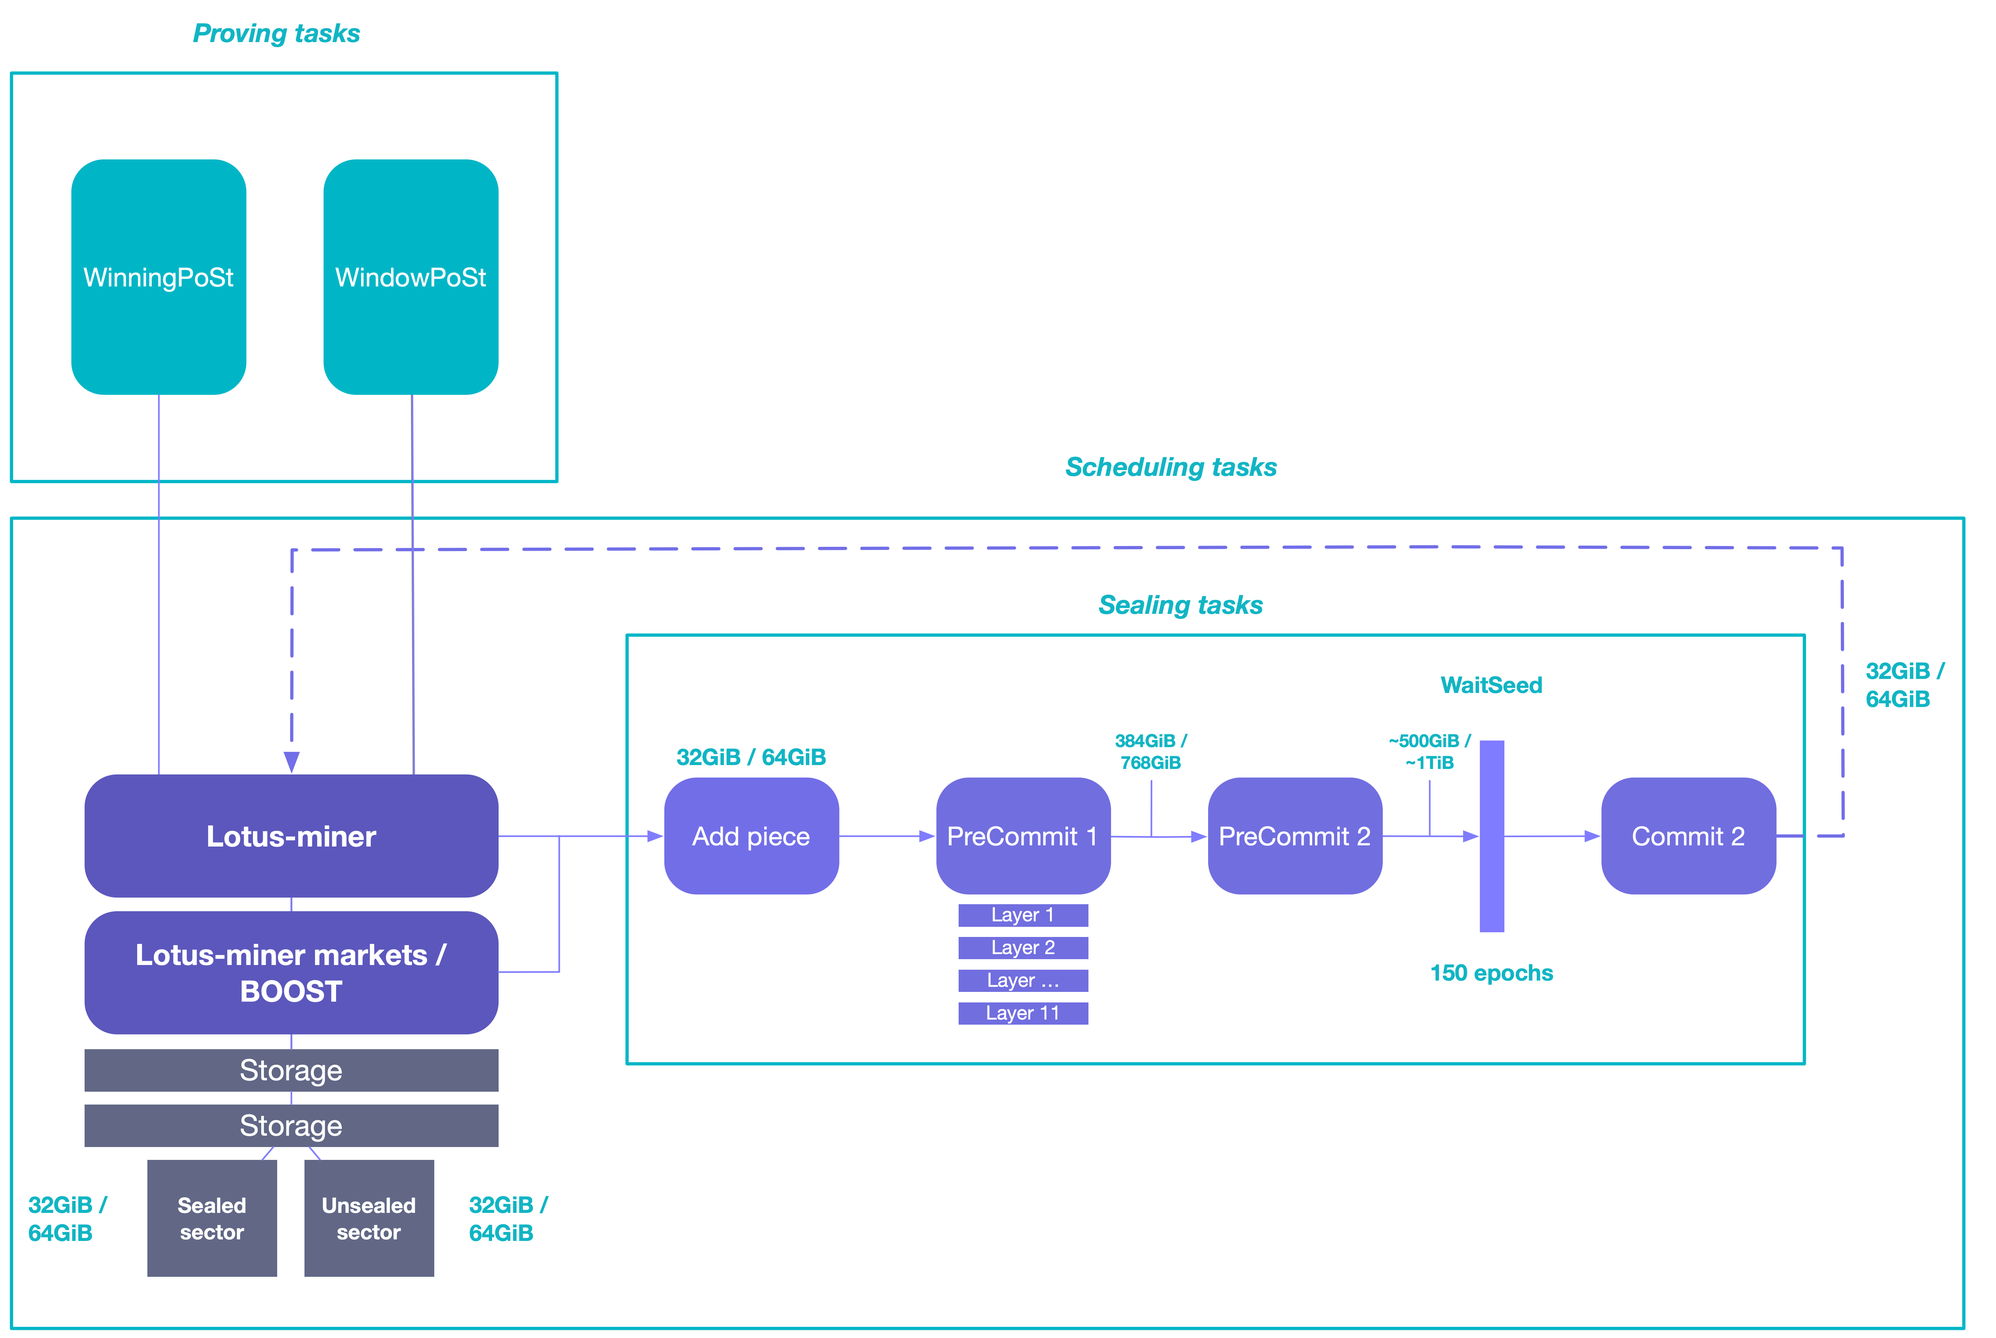
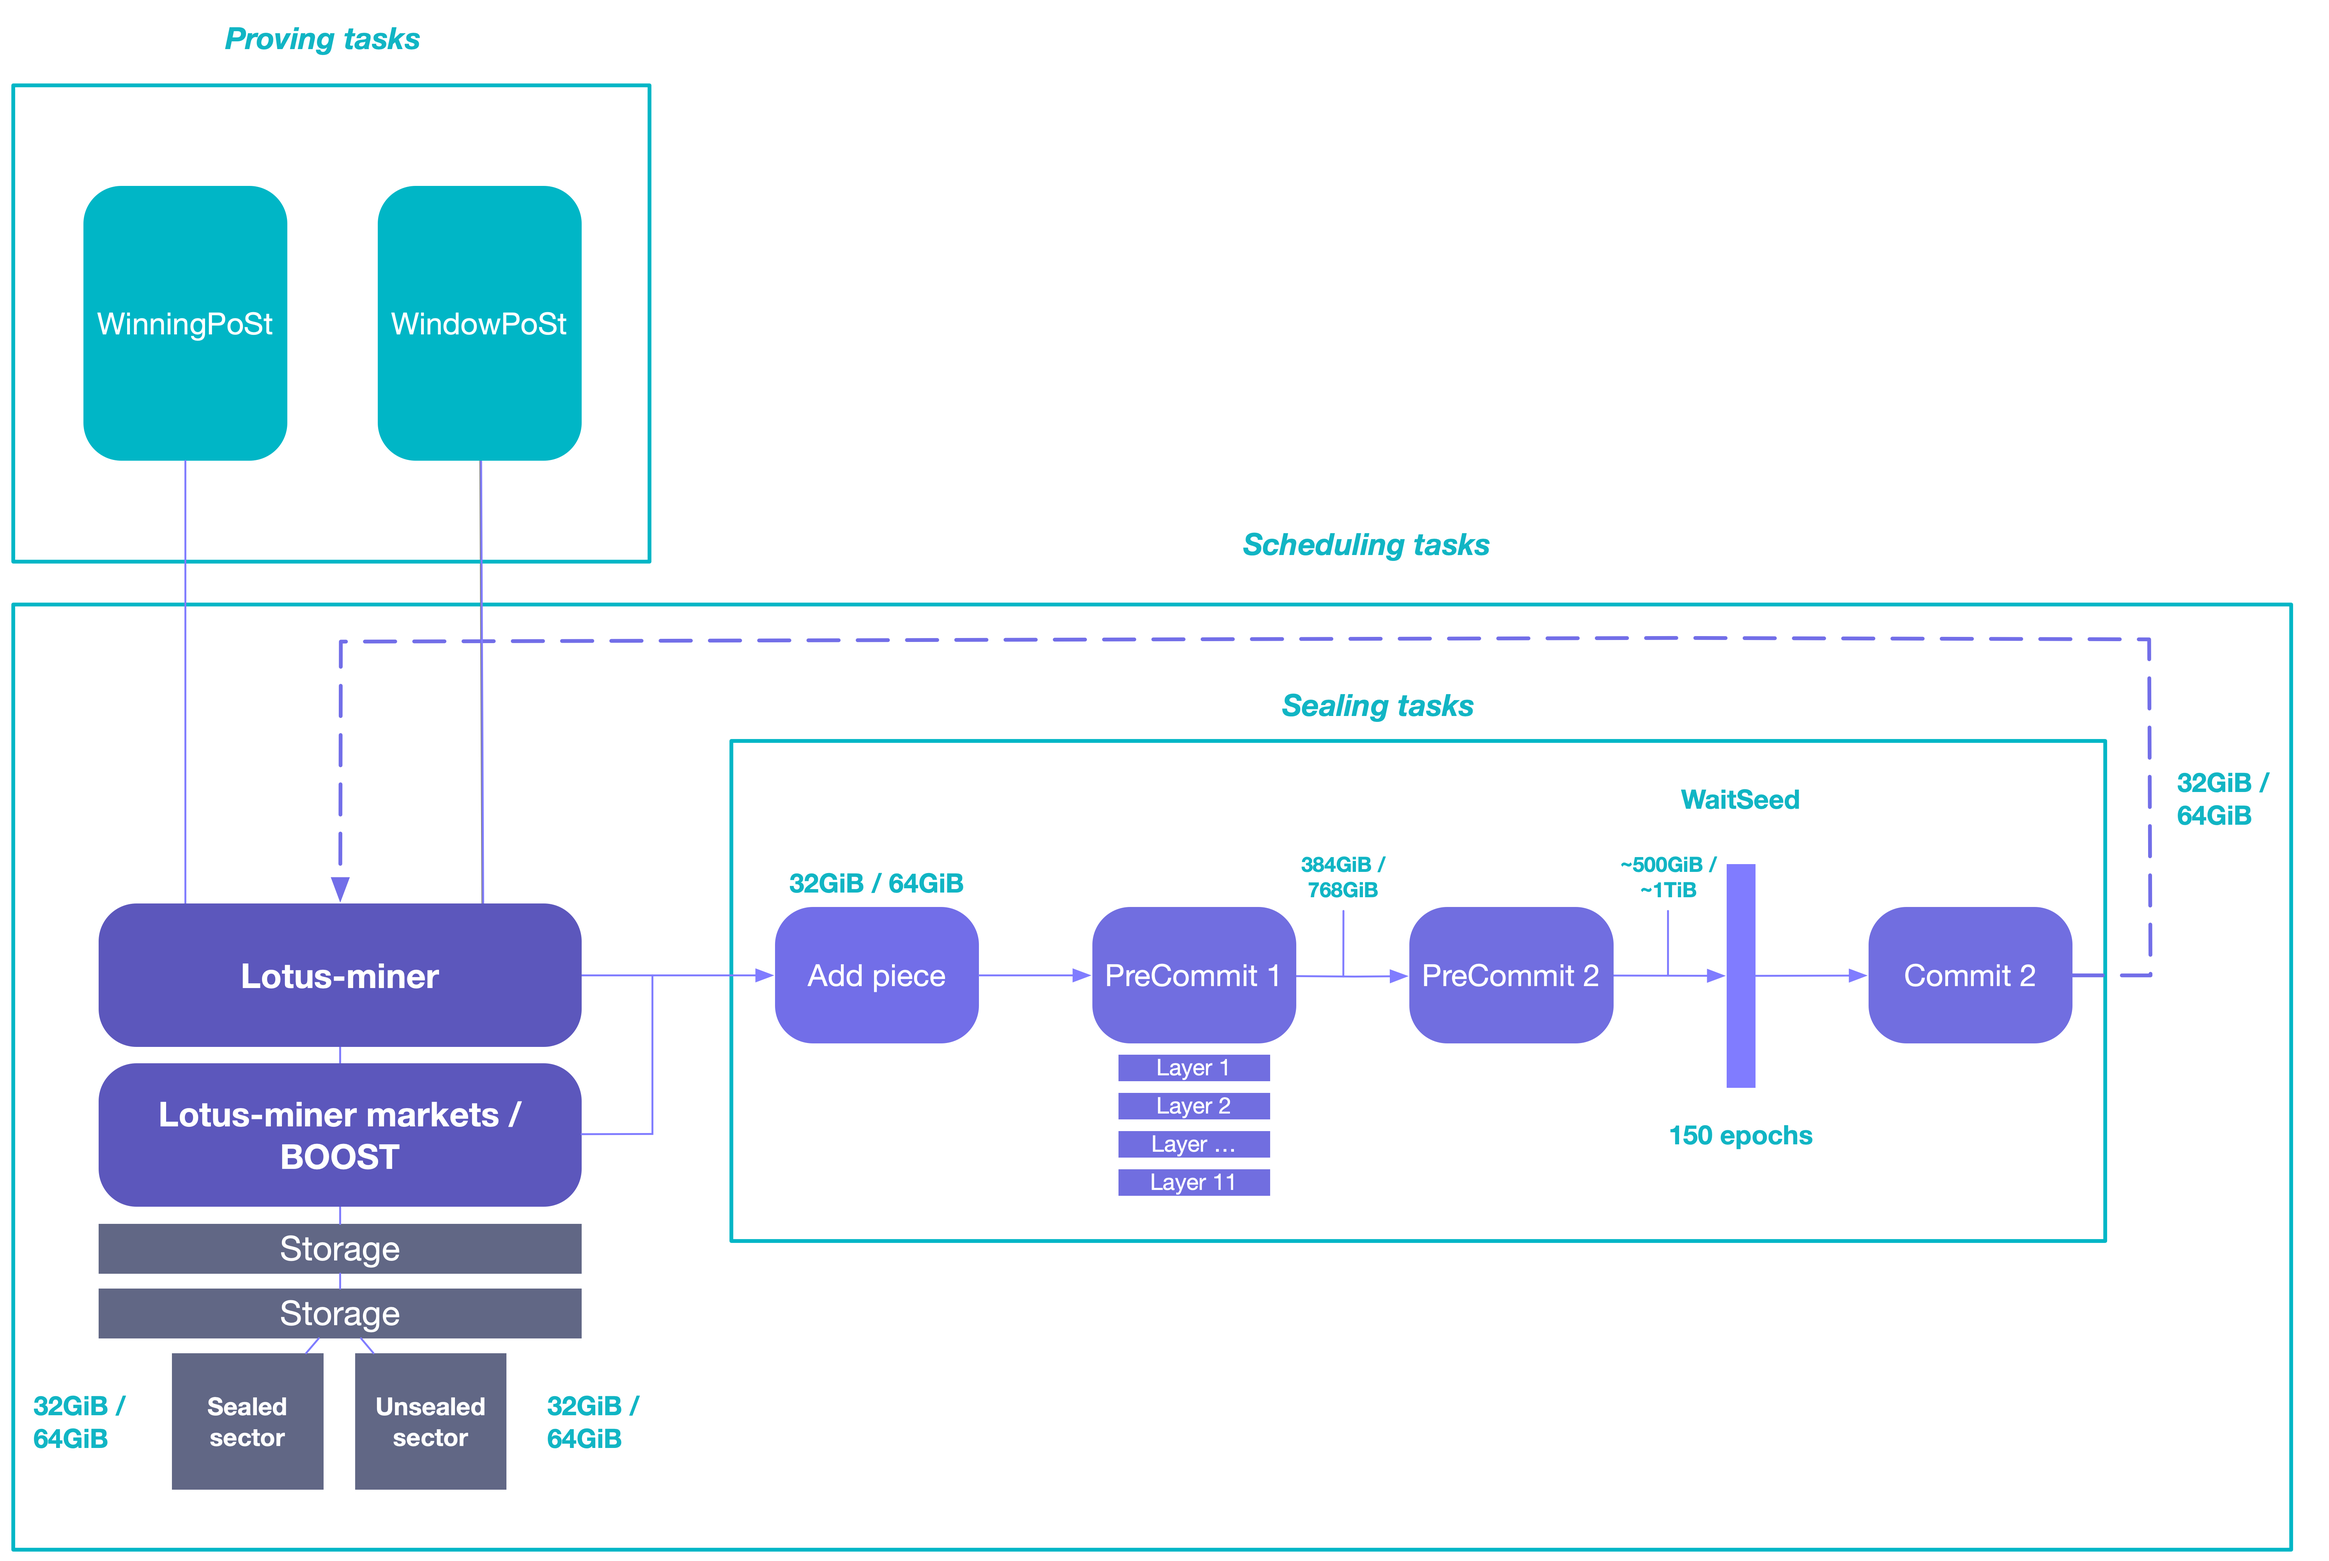
Optimized png
Shrinking the png-image, and reverting from using svg

Changed region(s): [[0.9375, 0.4987, 0.9688, 0.5299], [0.1875, 0.187, 0.2188, 0.2182]]

diff --git a/content/en/storage-providers/get-started/tasks/index.md b/content/en/storage-providers/get-started/tasks/index.md
@@ -25,7 +25,7 @@ Snap-Deal sealing tasks are covered in a separate dedicated guide in the operate
 
 **Scheduling tasks**: These are background tasks for controlling and optimizing work across all the sub components of `lotus-miner`. Since Lotus is highly configurable and many of the `lotus-miner` sub-components can be split into separate machines, scheduling work efficiently and securely is important.
 
-![Overview of the lotus-miner tasks](lotus-miner-tasks.svg) 
+![Overview of the lotus-miner tasks](lotus-miner-tasks.png) 
 
 ### Add piece
 
